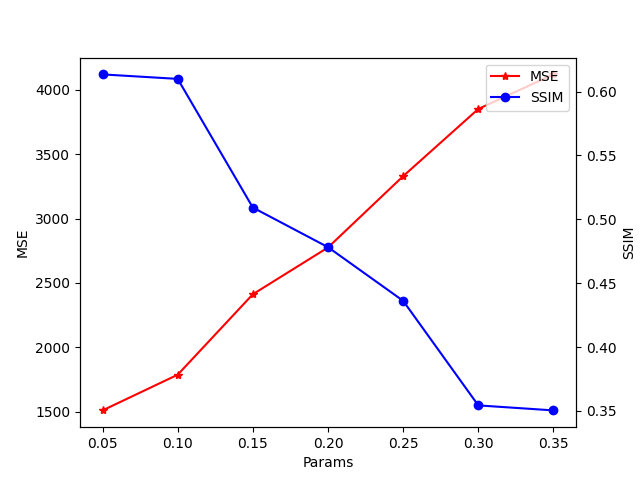
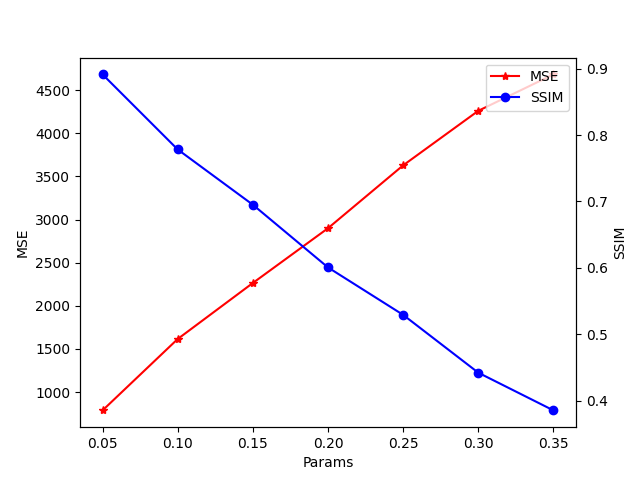
Upload

diff --git a/experiments.py b/experiments.py
@@ -297,7 +297,7 @@ if __name__ == '__main__':
         'noiseModel': 'Amplitude Damping',
         'modelParams': [0.05, 0.1, 0.15, 0.2, 0.25, 0.3, 0.35],
         'shots': 20000,
-        'resize': 16,
+        'resize': 32,
         'originalImgPath': IMG_PATH,
         'home_path': 'result/FRQI_AmpDam/',
     }
@@ -312,7 +312,7 @@ if __name__ == '__main__':
         'home_path': 'result/NEQR_AmpDam/',
     }
 
-    imgDictList,imgDiffList = experiments(experiment_settings_NEQR)
+    imgDictList,imgDiffList = experiments(experiment_settings_MCRQI)
     imgPlot(imgDictList, 'out')
     imgPlot(imgDiffList, 'diff')
     plotEvalCurve(imgDictList)

diff --git a/reports/NoiseModelMathematicalForm.md b/reports/NoiseModelMathematicalForm.md
@@ -93,5 +93,170 @@
   \varepsilon(\rho)=(1-\frac{3p}{4})\rho+\frac{p}{4}(X\rho X+Y\rho Y + Z\rho Z)
   $$
 
-- showing that  
+- showing that depolarizing channel has operation elements $\{ \sqrt{1-3p/4}I,\sqrt{p}X/2, \sqrt{p}Y/2, \sqrt{p}Z/2 \}$. Note, incidentally, that it is frequently convenient to parameterize the depolarizing channel in different ways, such as
+
+- $$
+  \varepsilon(\rho)=(1-p)\rho + \frac{p}{3}(X\rho X+Y \rho Y+Z\rho Z)
+  $$
+
+- which has the interpretation that the state $\rho$ is left alone with probability $1-\rho$, and the operators $X, Y$ and $Z$ applied each with probability $p/3$. 
+
+- The depolarizing channel can, of course, be generalized to quantum system of dimension more than two. For a $d$-dimensional quantum system the depolarizing channel again replaces the quantum system with the completely mixed state $I/d$ with probability $p$, and leaves the state untouched otherwise. The corresponding quantum operation is 
+
+- $$
+  \varepsilon(\rho) = \frac{pI}{d}+(1-p)\rho
+  $$
+
+### Amplitude Damping channel
+
+- An important application of quantum operations is the description of $energy \ dissipation$ - effects due to loss energy from a quantum system. What are the dynamics of an atom which is spontaneously emitting a photon? How does a spin system at high temperature approach equilibrium with its environment? What is the state of a photon in an interferometer or cavity when it is subject to scattering and attenuation?
+
+- Each of these processes has its own unique features, but the general behavior of all of them is well characterized by a quantum operation known as $amplitude \ damping$, which we can derive by considering the following scenario. Suppose we have a single optical mode containing the quantum state $a\ket{0}+b\ket{1}$, a superposition of zero or one photons. The scattering of a photon from this mode can be modeled by thinking of inserting a partially slivered mirror, a beamsplitter, in the path of the photon. As we saw in Section 7.4.2, this beamsplitter allows the photon to couple to couple to another single optical mode (representing the environment), according to the unitary transformation $B=exp[\theta(a^{\dagger}b-ab^{\dagger})]$, where $a, a^{\dagger}$ and $b, b^{\dagger}$ are annihilation and creation operators for photons in the two modes. The output after the beamsplitter, assuming the environment starts out with no photons, is simply $B\ket{0}(a\ket{0}+b\ket{1})=a\ket{00}+b(\cos \theta\ket{01}+\sin \theta \ket{10})$, using Equation (7.34). Tracing over the environment gives us the quantum operation
+
+- $$
+  \varepsilon_{AD}(\rho)=E_0\rho E_0^{\dagger}+E_1\rho E_1^{\dagger}
+  $$
+
+- where $E_k=\bra{k}B\ket{0}$ are
+
+- $$
+  E_0=\begin{bmatrix}
+  1 & 0 \\
+  0 & \sqrt{1-\gamma}
+  \end{bmatrix} \\
+  E_1=\begin{bmatrix}
+  0 & \sqrt{\gamma} \\
+  0 & 0
+  \end{bmatrix}
+  $$
+
+- the operation elements for amplitude damping. $\gamma=\sin^2\theta$ can be thought of as the probability of losing a photon.
+
+- Observe that no linear combination can be made of $E_0$ and $E_1$ to give an operation element proportional to the identity (though compare with Exercise 8.23). The $E_1$ operation changes a $\ket{1}$ state into a $\ket{0}$ state, corresponding to the physical process of losing a quantum of energy to the environment. $E_0$ leaves $\ket{0}$ unchanged, but reduces the amplitude of a $\ket{1}$ state; physically, this happens because a quantum of energy was not lost to the environment, and thus the environment now perceives it to be more likely that the system is in the $\ket{0}$ state, rather than the $\ket{1}$ state.
+
+- A general characteristic of a quantum operation is the set of states that are left invariant under the operation. For example, we have seen how the phase flip channel leaves the $\hat{z}$ axis of the Bloch sphere unchanged; this corresponds to states of the form $p\ket{0}\bra{0}+(1-p)\ket{1}\bra{1}$ for arbitrary probability $p$. In the case of amplitude damping, only the ground state $\ket{0}$ is left invariant. That is a natural consequence of our modeling the environment as starting in the $\ket{0}$ state, as if it were at zero temperature.
+
+- What quantum operation describes the effect of dissipation to an environment at finite temperature? This process, $\varepsilon_{GAD}$, called $generalized \ amplitude \ damping$, is defined for single qubits by the operation elements
+
+- $$
+  E_0 = \sqrt{p}\begin{bmatrix}
+  1 & 0 \\
+  0 & \sqrt{1-\gamma}
+  \end{bmatrix}\\
+  E_1 = \sqrt{p}\begin{bmatrix}
+  0 & \sqrt{\gamma} \\
+  0 & 0
+  \end{bmatrix}\\
+  E_2 = \sqrt{1-p}\begin{bmatrix}
+  \sqrt{1-\gamma} & 0 \\
+  0 & 1
+  \end{bmatrix}\\
+  E_3 = \sqrt{1-p}\begin{bmatrix}
+  0 & 0 \\
+  \sqrt{\gamma} & 0
+  \end{bmatrix}
+  $$
+
+- where the stationary state
+
+- $$
+  \rho_{\infin}=\begin{bmatrix}
+  p & 0 \\
+  0 & 1-p
+  \end{bmatrix}
+  $$
+
+- satisfies $\varepsilon_{GAD}(\rho_{\infin})$. Generalized amplitude damping describes the '$T_1$' relaxation process due to coupling of spins to their surrounding lattice, a large system which is in thermal equilibrium at a temperature often much higher than the spin temperature. This is the case relevant to NMR quantum computation, where some of the properties of $\varepsilon_{GAD}$ described in Box 8.3 become important.
+
+- We can visualize the effect of amplitude damping in the Bloch representation as the Bloch vector transformation
+
+- $$
+  (r_x, r_y, r_z) \rarr (r_x\sqrt{1-\gamma}, r_y\sqrt{1-\gamma}, \gamma+r_z(1-\gamma))
+  $$
+
+- When $\gamma$ is replaced with a time-varying function like $1-e^{-t/T_1}$ ($t$ is time, and $T_1$ just some constant characterizing the speed of the process), as is often the case for real physical processes, we can visualize the effects of amplitude damping as a $flow$ on the Bloch sphere, which moves every point in the unit ball towards a fixed point at the north pole, where $\ket{0}$ is located. This is shown in Figure 8.14.
+
+- Similarly, generalized amplitude damping performs the transformation
+
+- $$
+  (r_x, r_y, r_z) \rarr (r_x\sqrt{1-\gamma}, r_y\sqrt{1-\gamma}, \gamma(2p-1)+r_z(1-\gamma))
+  $$
+
+- Comparing last eq and this eq, it is clear that amplitude damping and generalized amplitude damping differ only in the location of the fixed point of the flow; the final state is along the $\hat{z}$ axis, at the point $(2p-1)$, which is a mixed state.
+
+- **Box 8.3: Generalized amplitude damping and effective pure states**
+
+  - The notion of 'effective pure states' introduced in Section 7.7 was found to be useful in NMR implementations of quantum computers. These states behave like pure states under unitary evolution and measurement of traceless observables. How do they behave under quantum operations? In general, non-unitary quantum operations ruin the effectiveness of these states, but surprisingly, they can behave properly under generalized amplitude damping.
+
+  - Consider a single qubit effective pure state $\rho=(1-p)I+(2p-1)\ket{0}\bra{0}$. Clearly, traceless measurement observables acting on $U\rho U^{\dagger}$ produce results which are proportional to those on the pure state $U\ket{0}\bra{0}U^{\dagger}$. Suppose $\rho$ is the stationary state of $\varepsilon_{GAD}$. Interestingly, in this case,
+
+  - $$
+    \varepsilon_{GAD}(U\rho U^{\dagger})=(1-p)I+(2p-1)\varepsilon_{AD}(U\rho U^{\dagger})
+    $$
+
+  - That is, under generalized amplitude damping, an effective pure state can remain such, and moreover, the 'pure' component of $\rho$ behaves as if it were undergoing amplitude damping to a reservoir at zero temperature!
+
+### Phase Damping channel
+
+- A noise process that is uniquely quantum mechanical, which describes the loss of quantum information without loss of energy, is $phase \ damping$. Physically it describes, for example, what happens when a photon scatters randomly as it travels through a waveguide, or how electronic states in an atom are perturbed upon interacting with distant electrical charges. The energy eigenstates of a quantum system do not change as a function of time, but do accumulate a phase which is not precisely known, partial information about this quantum phase - the $relative$ phases between the energy eigenstates - is lost.
+
+- A very simple model for this kind of quantum noise is the following. Suppose that we have a qubit $\ket{\psi}=a\ket{0}+b\ket{1}$ upon which the rotation operation $R_z(\theta)$ is applied, where the angle of rotation $\theta$ is random. The randomness could originate, for example, from a deterministic interaction with an environment, which never again interacts with the system and thus is implicitly measured (see Section 4.4). We shall call this random $R_z$ operation a $phase \ kick$. Let us assume that the phase kick angle $\theta$ is well represented as a random variable which has a Gaussian distribution with mean 0 and variance $2\lambda$.
+
+- The output state from this process is given by the density matrix obtained from averaging over $\theta$,
+
+- $$
+  \rho = \frac{1}{\sqrt{4\pi\lambda}}\int^{\infin}_{-\infin}R_z(\theta)\ket{\psi}\bra{\psi}R_z^{\dagger}(\theta)e^{-\theta^2/4\lambda}d\theta \\
+  =\begin{bmatrix}
+  |a|^2 & ab^*e^{-\lambda} \\
+  a^*be^{-\lambda} & |b|^2
+  \end{bmatrix}
+  $$
+
+- The random phase kicking causes the expected value of the off-diagonal elements of the density matrix to decay exponentially to zero with time. That is a characteristic result of phase damping.
+
+- Another way to derive the phase damping quantum operation is to consider an interaction between two harmonic oscillators, in a manner similar to how amplitude damping was derived in the last section, but this time with the interaction Hamiltonian
+
+- $$
+  H = \chi a^{\dagger}a(b+b^{\dagger})
+  $$
+
+- Letting $U=exp(-iH\Delta t)$, considering only the $\ket{0}$ and $\ket{1}$ states of the $a$ oscillator as our system, and taking the environment oscillator to initially be $\ket{0}$, we find that tracing over the environment gives the operation elements $E_k=\bra{k_b}U\ket{0_b}$, which are
+
+- $$
+  E_0 = \begin{bmatrix}
+  1 & 0 \\
+  0 & \sqrt{1-\lambda}
+  \end{bmatrix} \\
+  E_1 = \begin{bmatrix}
+  0 & 0 \\
+  0 & \sqrt{\lambda}
+  \end{bmatrix}
+  $$
+
+- where $\lambda=1-\cos^2(\chi\Delta t)$ can be interpreted as the probability that a photon from the system has been scattered (without loss of energy). As was the case for amplitude damping, $E_0$ leaves $\ket{0}$ unchanged, but reduces the amplitude of a $\ket{1}$ state; unlike amplitude damping, however, the $E_1$ operation destroys $\ket{0}$ and reduces the amplitude of the $\ket{1}$ state, and does not change it into a $\ket{0}$.
+
+- By applying Theorem 8.2, the unitary freedom of quantum operations, we find that a unitary recombination of $E_0$ and $E_1$ gives a new set of operation elements for phase damping,
+
+- $$
+  \tilde{E_0}=\sqrt{\alpha}\begin{bmatrix}
+  1 & 0 \\
+  0 & 1
+  \end{bmatrix} \\
+  \tilde{E_1} = \sqrt{1-\alpha}\begin{bmatrix}
+  1 & 0 \\
+  0 & -1
+  \end{bmatrix}
+  $$
+
+- where $\alpha=(1+\sqrt{1-\lambda})/2$. Thus the phase damping quantum operation is $exactly$ the same as the phase flip channel which we encountered in Section 8.3.3!
+
+- Since phase damping is the same as the phase flip channel, we have already seen how it is visualized on the Bloch sphere, in Figure 8.9. This corresponds to the Bloch vector transformation
+
+- $$
+  (r_x, r_y, r_z) \rarr (r_x\sqrt{1-\lambda}, r_y\sqrt{1-\lambda}, r_z)
+  $$
+
+- which has the effect of shrinking the sphere into ellipsoids. Phase damping is often referred to as a '$T_2$' (or 'spin-spin') relaxation process, for historical reasons, where $e^{-t/2T_2}=$
+
+
 
